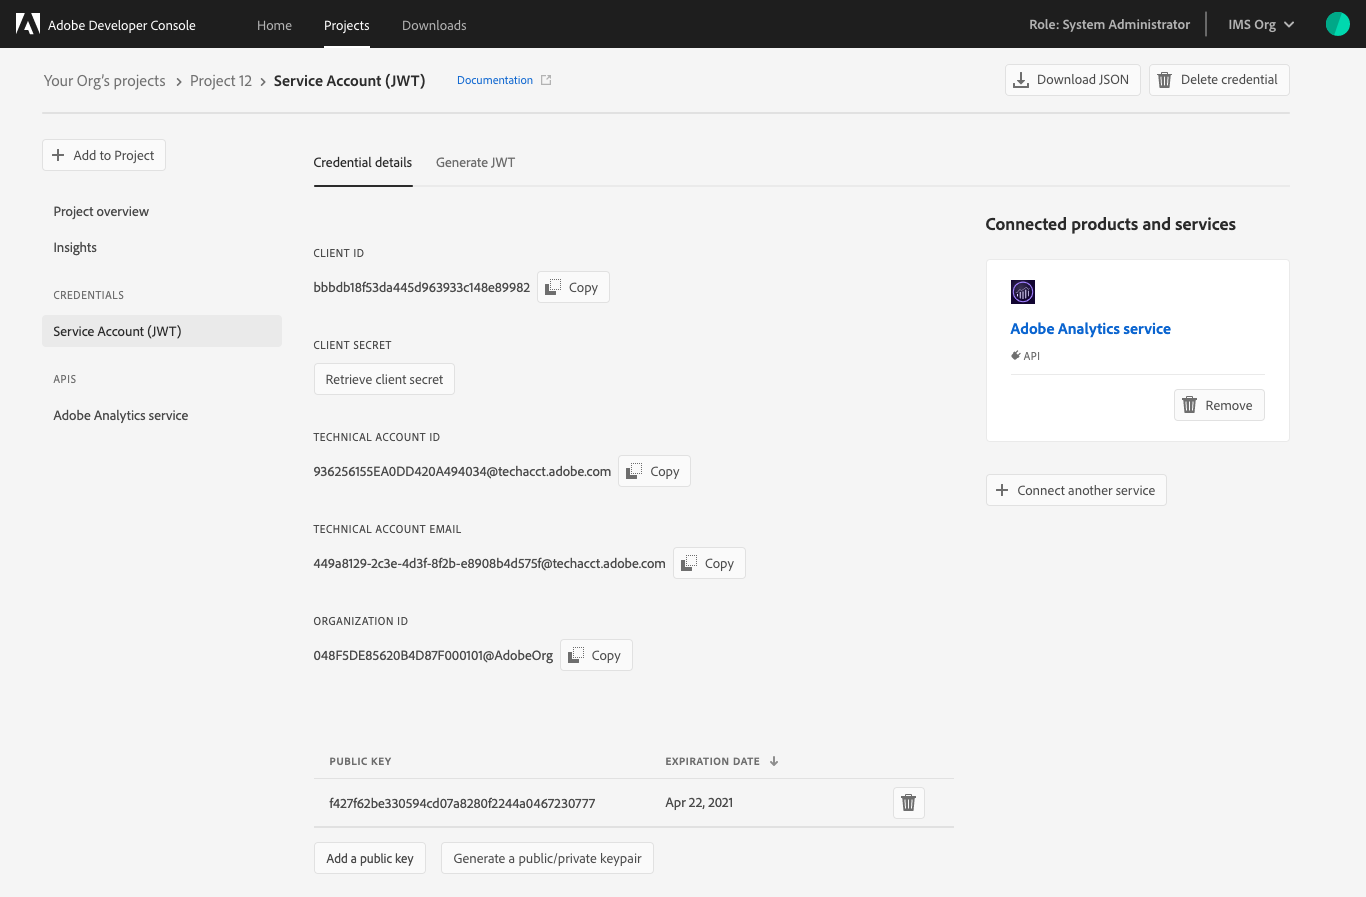
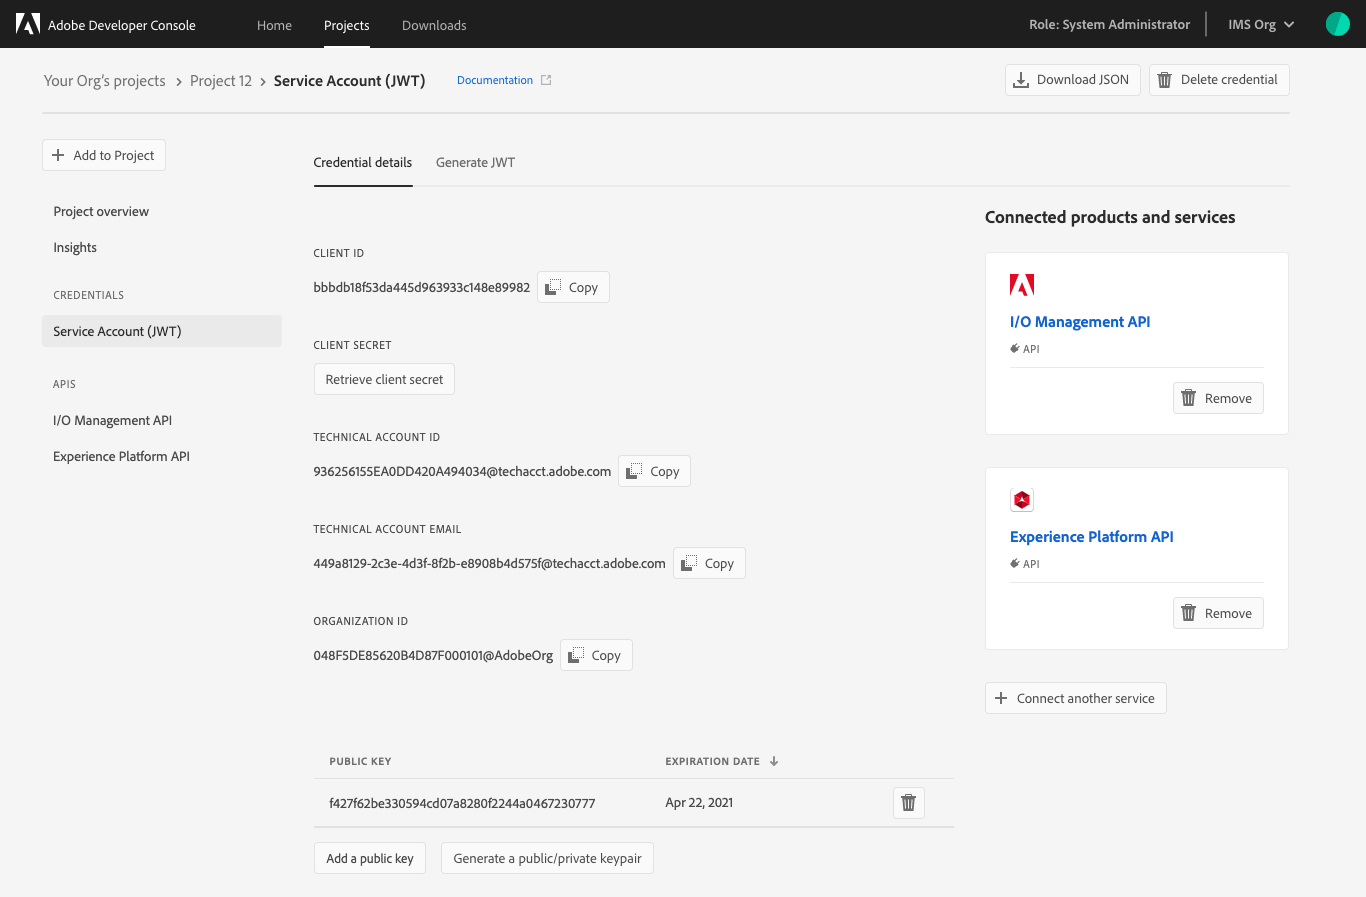
Updates to credentials.md

diff --git a/credentials.md b/credentials.md
@@ -1,4 +1,4 @@
-# Credentials overview
+# Credentials
 
 Once you have successfully added APIs to your project or workspace, you can return to the *Project overview* (or *Workspace overview* in a templated project) at any time to view the details for that API and any other project services you may have added. 
 
@@ -6,18 +6,44 @@ Once you have successfully added APIs to your project or workspace, you can retu
 
 ![](images/credentials-project-overview.png)
 
-You can select the specific API from the left navigation to view its details or remove the API using the **Remove API** button in the top-right corner.
+## Credential details
 
-You can also select the specific credential type from the left navigation to view the *Credential details* and perform other actions (generate JWT tokens, copy credential details, retrieve client secrets, etc.) as needed. 
+You can select a specific API from the left navigation to view its details or you can select a credential type under *Credentials* in the left navigation in order to view the *Credential details* and perform other actions (generate JWT tokens, copy credential details, retrieve client secrets, etc.) as needed. 
+
+If multiple services have been added to the project or workspace using the same credentials, they will each be listed under the *Connected products and services* on the right-hand side of the details tab.
+
+For example, selecting **Service Account (JWT)** under *Credentials* will open the *Credential details* for all products and services connected using JWT.
 
 ![](images/credentials-details.png)
 
+## Generate JWT
+
+If you selected **Service Account (JWT)** under *Credentials* you will be presented with the *Credential details* for all products and services connected using JWT.
+
+You can also select **Generate JWT** in order to view a sample *JWT Payload* or *Generate custom JWT* by copying and pasting your private key into the available field and choosing **Generate Token**.
+
 ![](images/credentials-generate-jwt.png)
+
+If successful, the *Generated JWT* will be visible as well as a *Sample cURL command*. You can select *Clear generated JWT* in order to clear the screen and generate a new token.
 
 ![](images/credentials-generated-jwt.png)
 
+## OAuth
+
+By selecting **OAuth** under *Credentials*, you will be shown all products and services connected to your project using OAuth 2.0 authenication and authorization.
+
+From here, you can view and copy the *Client ID*, retrieve the client secret, and view the *Platform* type as well as the *Redirect URL*. 
+
+Within the *Credential details* screen you can also choose to download the OAuth JSON file, edit the credential, or delete the credential using the buttons provided in the top-right corner of console.
+
 ![](images/credentials-oauth-web.png)
+
+## API key
+
+The API key *Credential details* display any products or services connected using an API key for authentication, as well as the API key itself and the ability to copy it for use.
 
 ![](images/credentials-api-key.png)
 
+## Next steps
 
+To add additional services to your project or workspace, please visit the [services overview](services.md).
